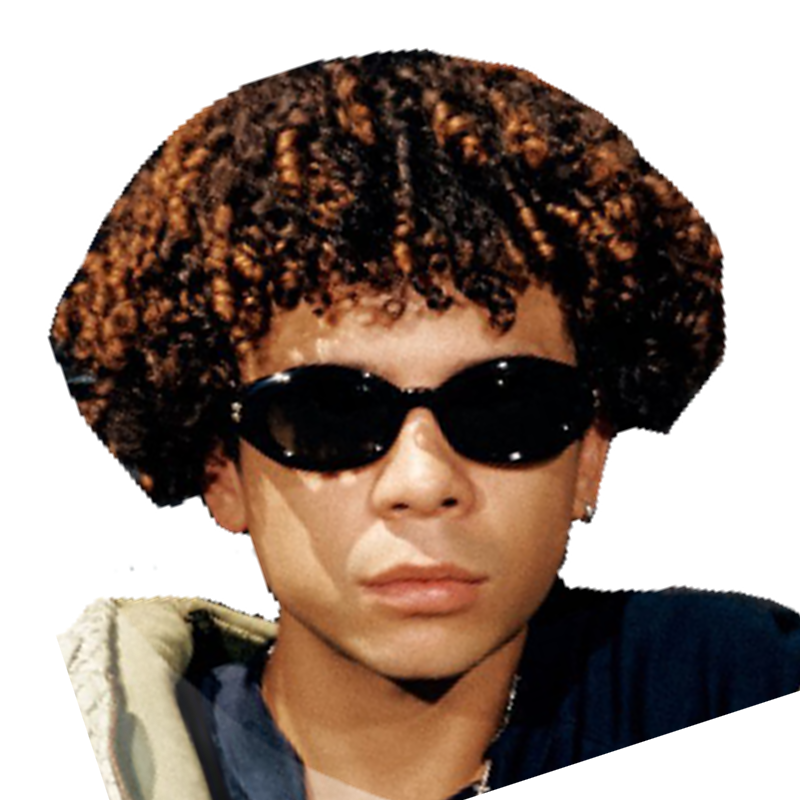
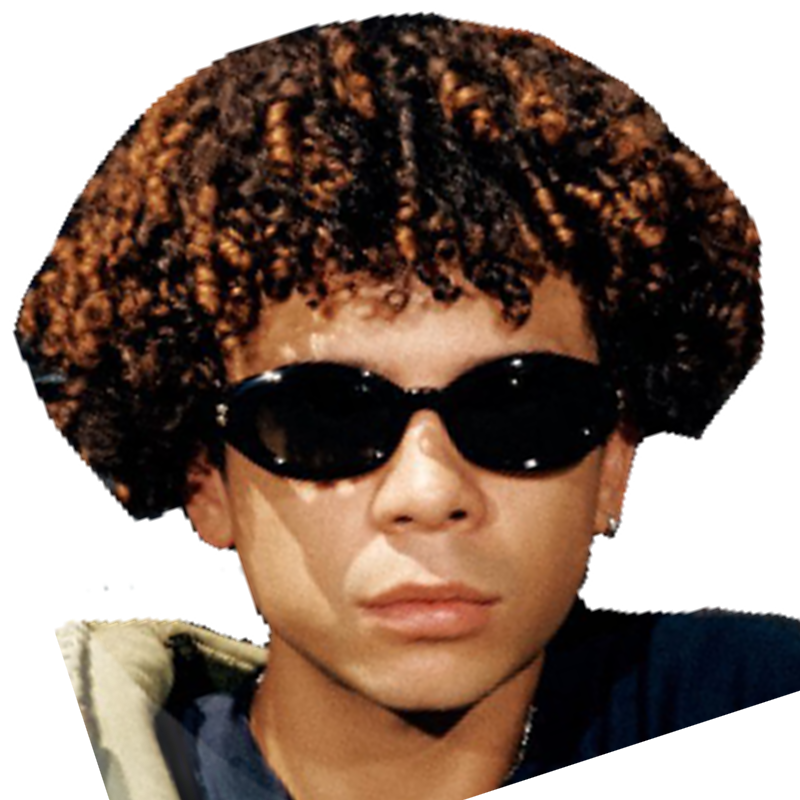
Update Kick Off The Wall (Feat. iann dior) photos

diff --git a/js/ranking.js b/js/ranking.js
@@ -4,7 +4,7 @@
 /* ========================================= */
 
 /* Bump when the avatar images change, to bust the browser/Pages cache. */
-const PHOTO_VER = 214;
+const PHOTO_VER = 215;
 window.PHOTO_VER = PHOTO_VER;
 
 const Ranking = {
